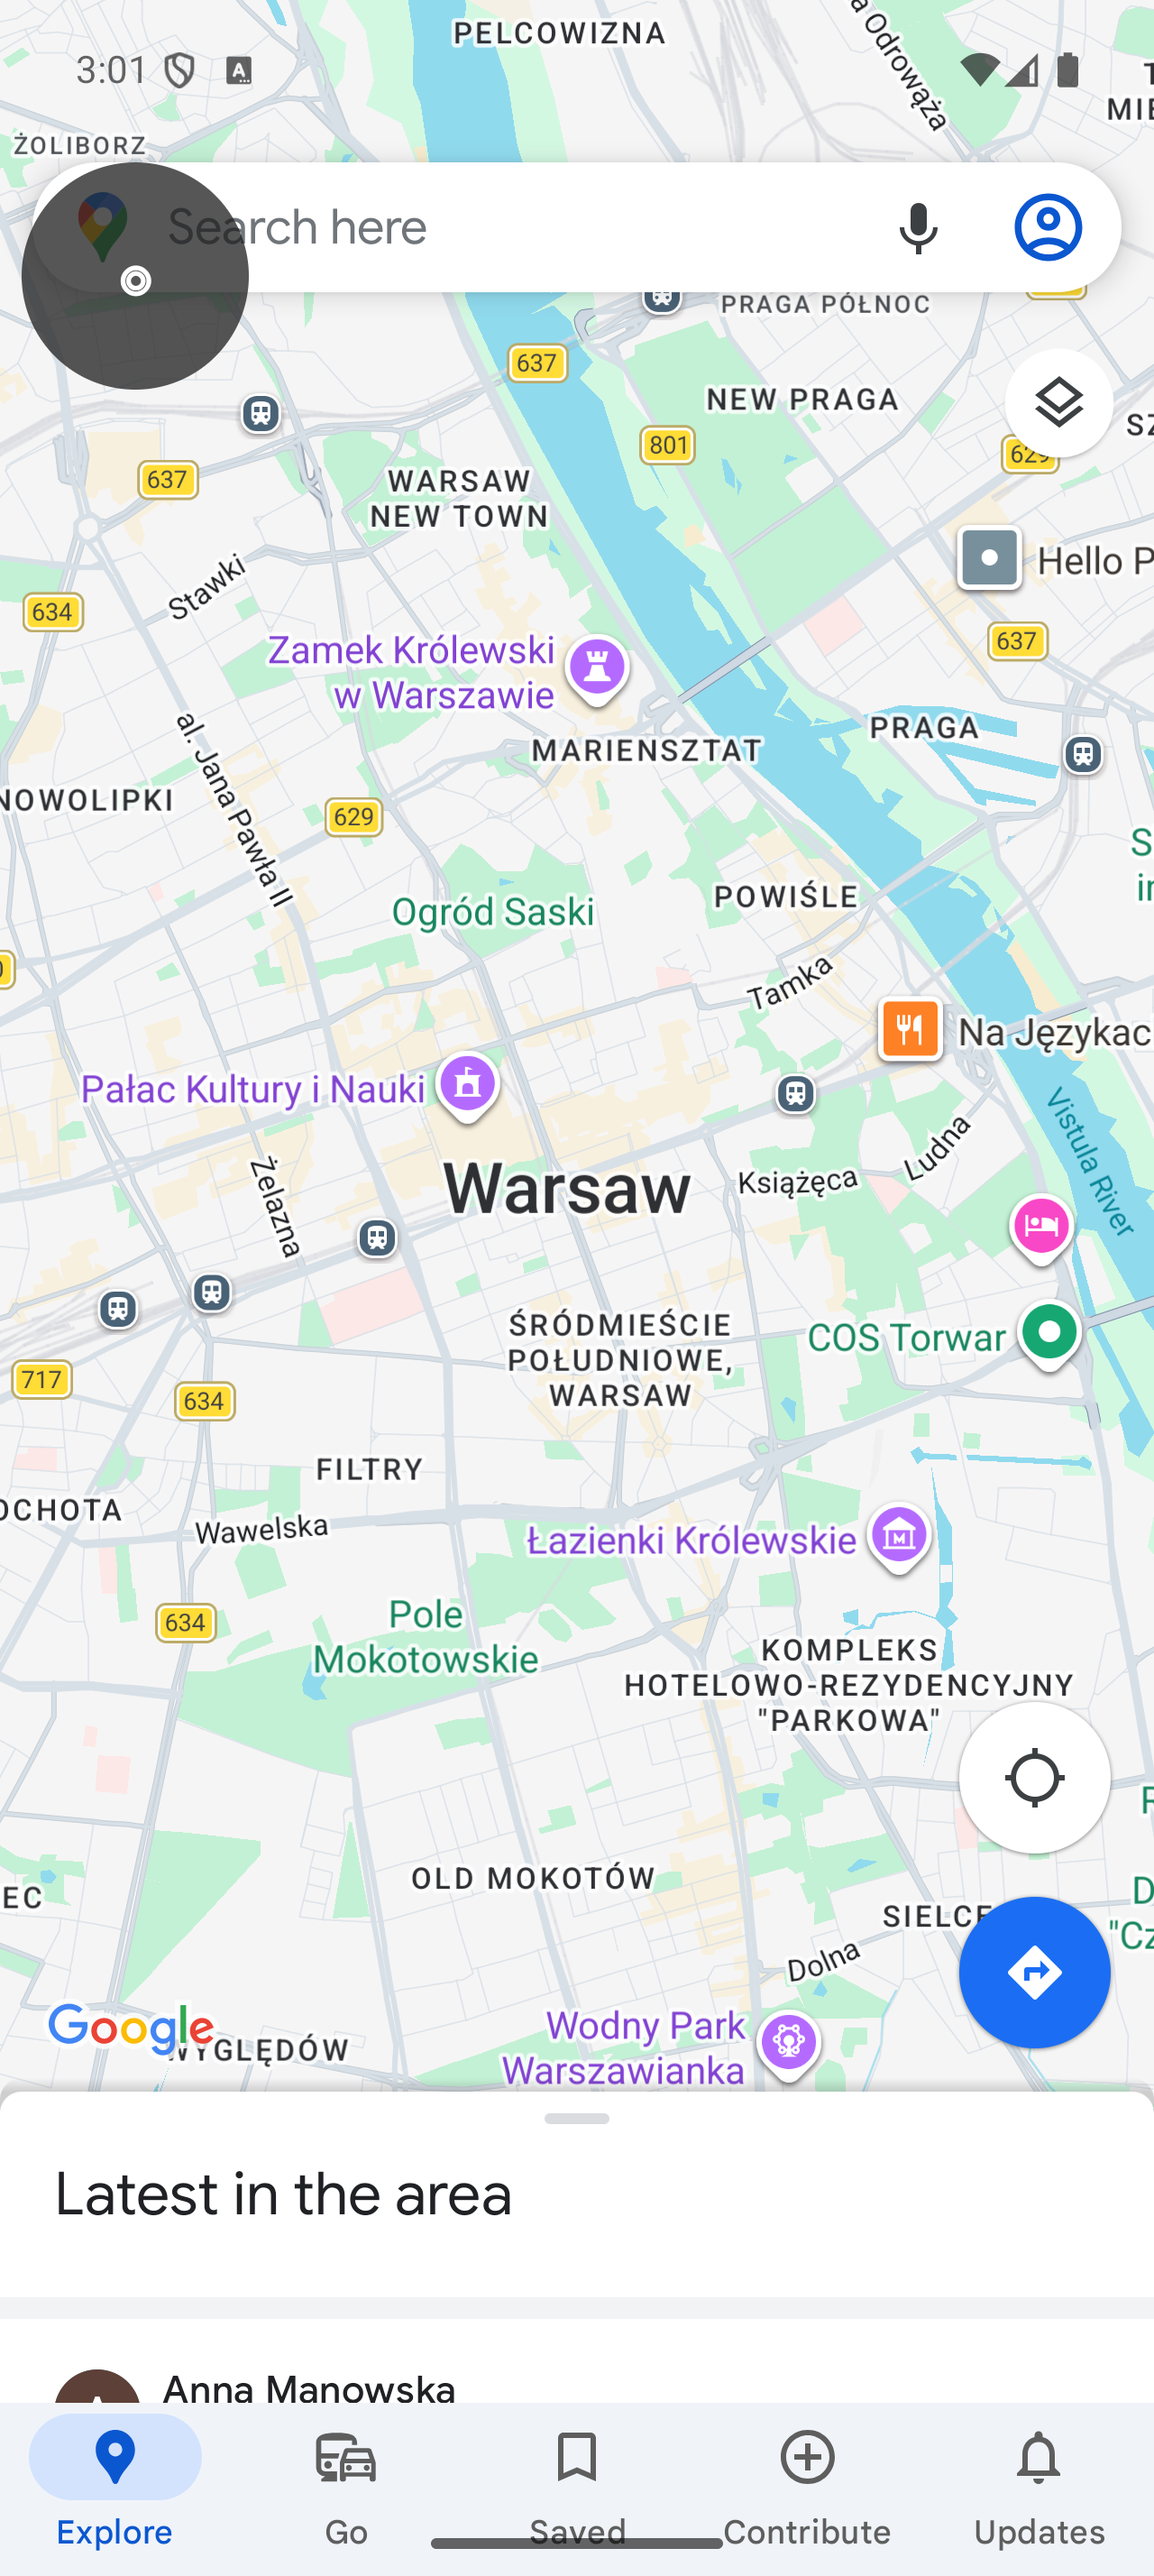
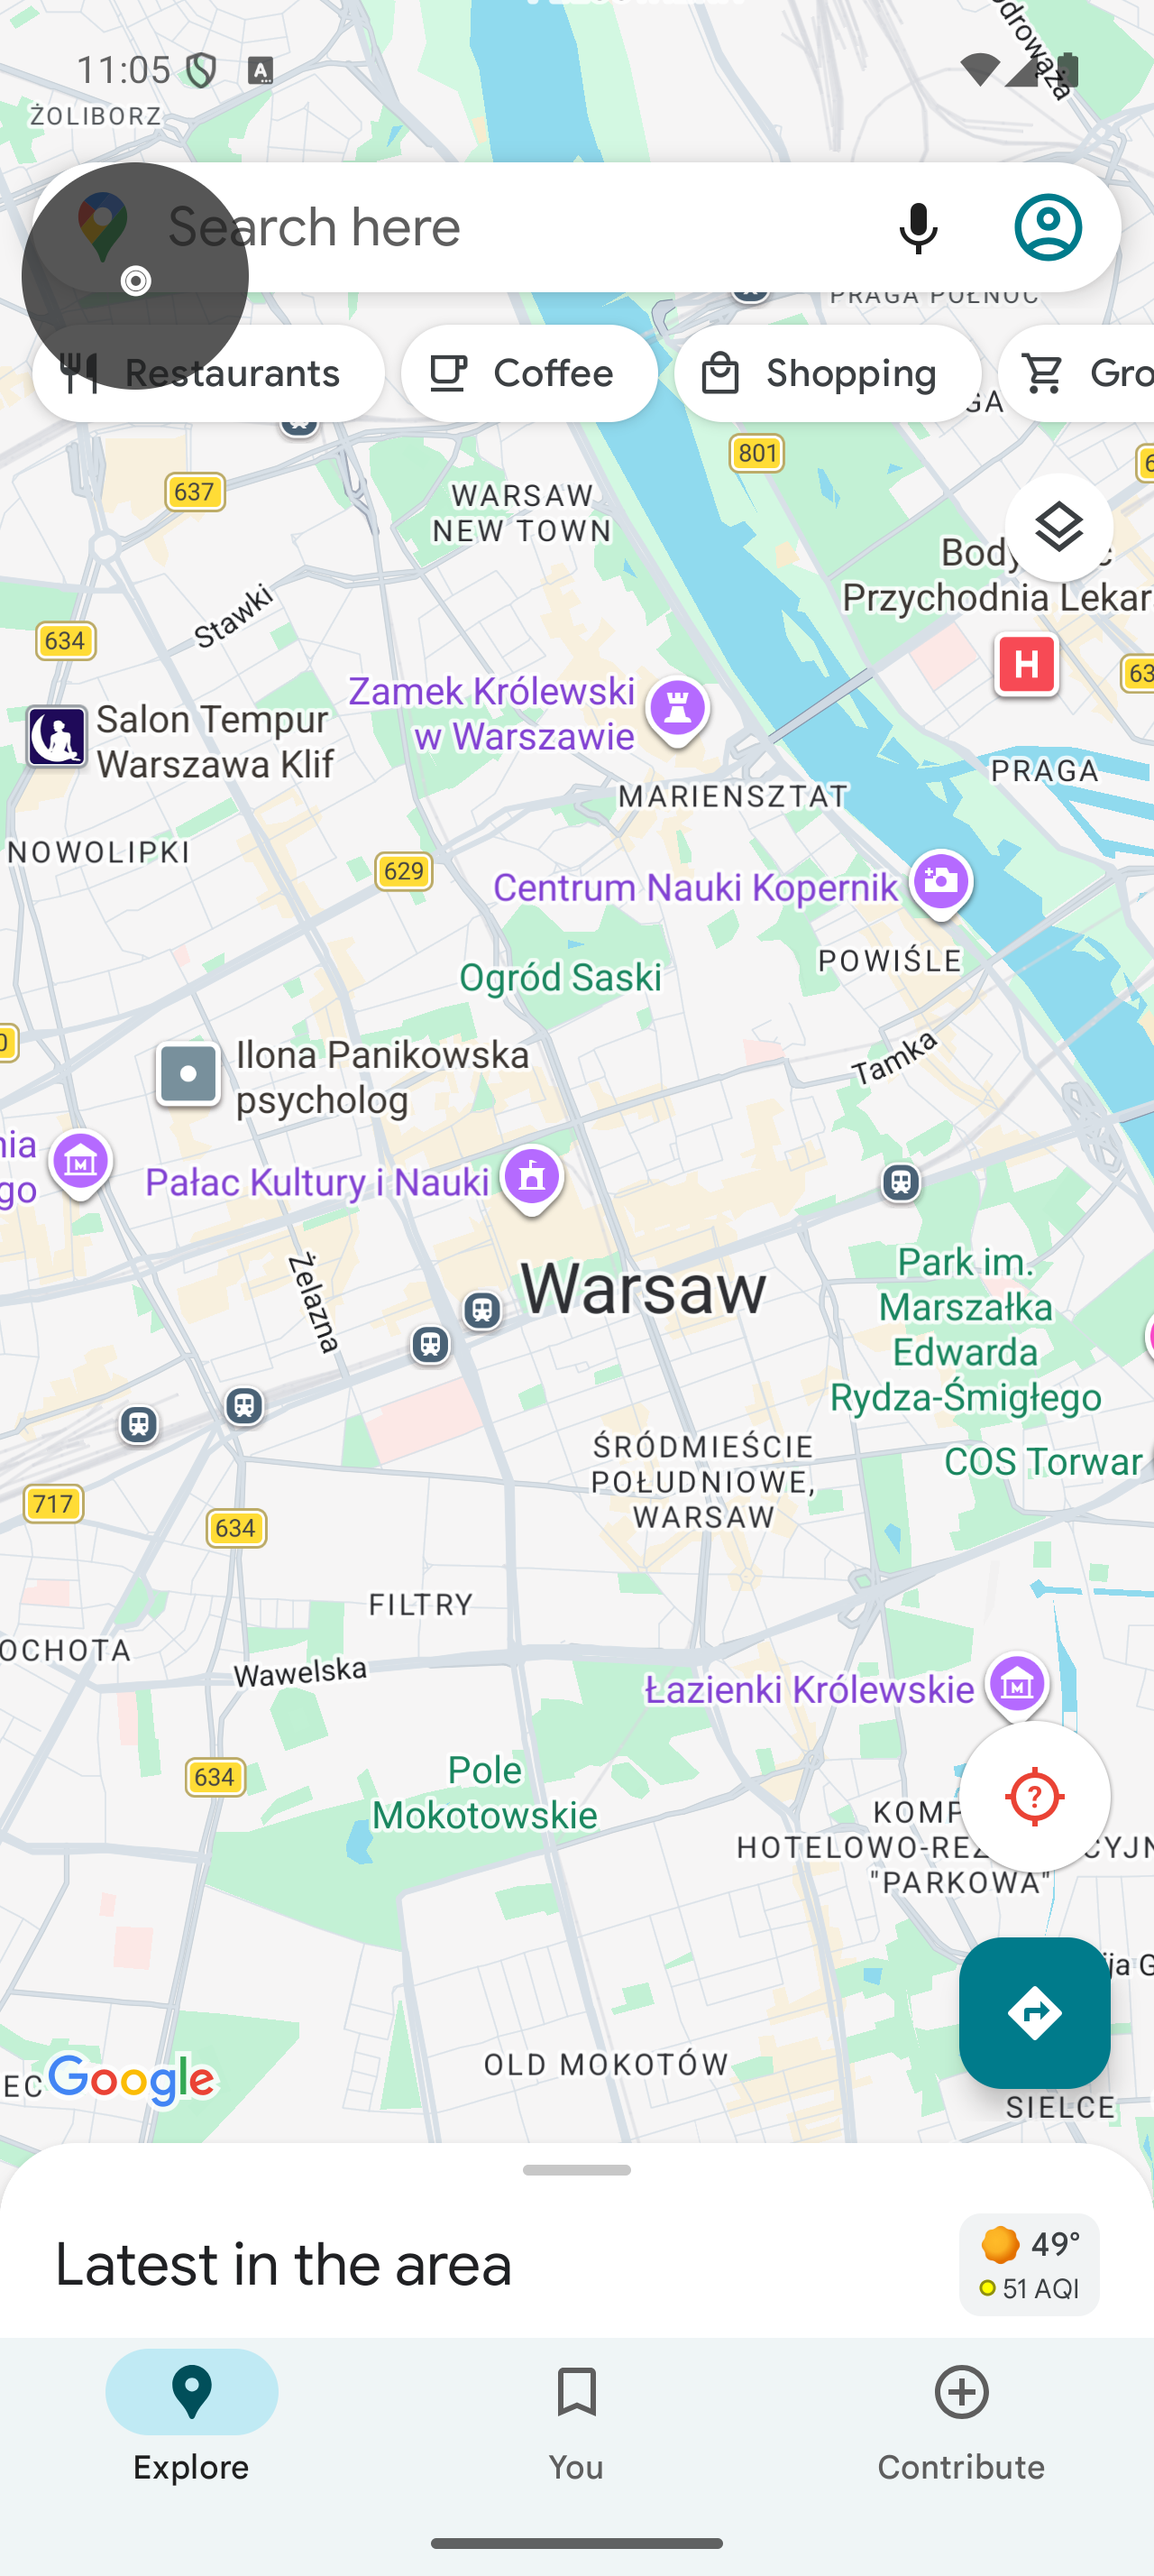
Update docs

diff --git a/CLAUDE.md b/CLAUDE.md
@@ -6,12 +6,12 @@ Nakładka ekranowa z dużymi przyciskami gestów do sterowania mapą w trasie (n
 
 ```
 MainActivity
-└── SetupScreen (Compose) — konfiguracja uprawnień, start/stop nakładki
+└── SetupScreen (Compose) — konfiguracja uprawnień, start/stop nakładki, slidery gestów
 
 OverlayService (ForegroundService)
 └── osobne ComposeView w WindowManager
-    ├── FAB toggle (zwijanie/rozwijanie)
-    └── EdgeButtons (6 osobnych views na krawędziach ekranu)
+    ├── FAB toggle (tap = zwijanie/rozwijanie, long press = otwórz Setup UI)
+    └── EdgeButtons (6 osobnych views na krawędziach ekranu, powiększone)
 
 MapGestureAccessibilityService
 ├── performSwipe(direction) — jeden ślad, konfigurowalny czas
@@ -24,7 +24,9 @@ Nakładka ma dwa tryby:
 - **Zwinięty:** mały FAB w lewym górnym rogu
 - **Rozwinięty:** przyciski rozłożone po krawędziach ekranu (góra/dół/lewo/prawo), zoom ＋ pod lewą krawędzią, zoom － pod prawą. Środek ekranu wolny — widać aplikację pod spodem.
 
-Przyciski półprzezroczyste (~30% opacity), reagują na press (nie tap) — odporne na przesunięcie palca podczas ruchu.
+FAB: tap = toggle, long press = otwiera MainActivity (Setup UI).
+
+Przyciski krawędziowe półprzezroczyste (~30% opacity), reagują na press (nie tap) — odporne na przesunięcie palca podczas ruchu. Góra/dół są 2× szersze, boki i zoom 2× wyższe dla łatwiejszego celowania w trasie.
 
 ## Komunikacja między komponentami
 
@@ -36,16 +38,15 @@ Przyciski półprzezroczyste (~30% opacity), reagują na press (nie tap) — odp
 
 ## Strojenie gestów
 
-Wszystkie parametry w `GestureConfig` (`MapGestureAccessibilityService.kt`):
+Parametry gestów w `GestureConfig` (`MapGestureAccessibilityService.kt`). Trzy z nich są konfigurowalne przez użytkownika z Setup UI (slidery), reszta hardcoded:
 
-| Parametr | Domyślnie | Efekt |
-|----------|-----------|-------|
-| `SWIPE_DISTANCE_RATIO` | 0.25 | dystans swipe jako % szerokości ekranu |
-| `SWIPE_DURATION_MS` | 300 | czas trwania swipe |
-| `ZOOM_IN_PERCENT` | 0.14 | rozstaw palców zoom-in (% szer.) |
-| `ZOOM_OUT_PERCENT` | 0.07 | rozstaw palców zoom-out (% szer.) |
-| `ZOOM_IN_DURATION_MS` | 400 | czas trwania pinch zoom-in |
-| `ZOOM_OUT_DURATION_MS` | 400 | czas trwania pinch zoom-out |
+- **`swipeDistanceRatio`** — dystans swipe jako % szerokości ekranu (slider w UI)
+- **`zoomInPercent`** — rozstaw palców zoom-in jako % szer. (slider w UI)
+- **`zoomOutPercent`** — rozstaw palców zoom-out jako % szer. (slider w UI, min 7%)
+- `SWIPE_DURATION_MS` — czas trwania swipe (hardcoded)
+- `ZOOM_IN_DURATION_MS` / `ZOOM_OUT_DURATION_MS` — czas trwania pinch (hardcoded)
+
+Wartości użytkownika persystowane w SharedPreferences (`map_overlay_prefs`), ładowane w `MainActivity.onCreate`, zmiana z slidera działa natychmiast (config czytany przy każdym geście).
 
 ## WindowManager — osobne views zamiast fullscreen
 
@@ -59,6 +60,7 @@ Kluczowa decyzja: overlay NIE używa jednego fullscreen `ComposeView` — to blo
 Flagi WindowManager:
 - `FLAG_NOT_FOCUSABLE` — dotyki poza view trafiają do aplikacji pod spodem
 - `FLAG_NOT_TOUCH_MODAL` — pozwala na interakcję z aplikacją w wolnych obszarach
+- `FLAG_SHOW_WHEN_LOCKED` — overlay widoczny i interaktywny na ekranie blokady
 
 `OverlayLifecycleOwner` implementuje `LifecycleOwner + ViewModelStoreOwner + SavedStateRegistryOwner` — współdzielony między wszystkimi ComposeView, niezbędny bo Compose jest hostowany poza Activity.
 
@@ -73,5 +75,5 @@ AGP 9.0.1, Gradle 9.4.0, wbudowany Kotlin (bez osobnego pluginu `kotlin-android`
 ## Znane ograniczenia
 
 - AccessibilityService jest `null` do momentu ręcznego włączenia w ustawieniach systemowych
-- Gesty mogą nie działać na ekranach systemowych (ekran blokady, panel powiadomień)
+- Gesty mogą nie działać na niektórych ekranach systemowych (panel powiadomień)
 - `FLAG_NOT_FOCUSABLE` sprawia, że nakładka nie przechwytuje dotyku w obszarach bez przycisków, ale też nie może obsługiwać focus/klawiatury

diff --git a/README.md b/README.md
@@ -1,22 +1,24 @@
 # FatTap
+<img src="docs/ic_launcher-playstore.png" width="256" />
 
-**Ride map made easy** | **Łatwa mapa w trasie**
+**Ride map made easy**
 
 Screen overlay with large gesture buttons for controlling any map app while riding.
 When your phone is mounted on handlebars and you can't precisely hit small UI elements,
 FatTap gives you big, semi-transparent buttons on screen edges to swipe and zoom the map.
 
 ## Screenshot
-
-<p align="center">
-  <img src="docs/Screenshot.png" width="300" alt="FatTap overlay on Google Maps" />
-</p>
+| |                                                                                     | |
+| --- |-------------------------------------------------------------------------------------| --- |
+| <img src="docs/Screenshot_setup.png" alt="FatTap setup UI" /> | <img src="docs/Screenshot_opened.png" alt="FatTap overlay opened on Google Maps" /> | <img src="docs/Screenshot_closed.png" alt="FatTap overlay closed on Google Maps" /> |
 
 ## Features
 
 - **Directional swipe** — pan the map in any direction
 - **Pinch zoom** — zoom in and out without two-finger gestures
 - **Collapsible** — hide all buttons with one tap, the screen underneath stays fully interactive
+- **Configurable** — adjust swipe distance and zoom strength from the setup screen
+- **Lock screen ready** — overlay stays visible and interactive over the lock screen
 - **Motion-friendly** — buttons respond on press, so they work even when your finger slides
 
 ## Setup
